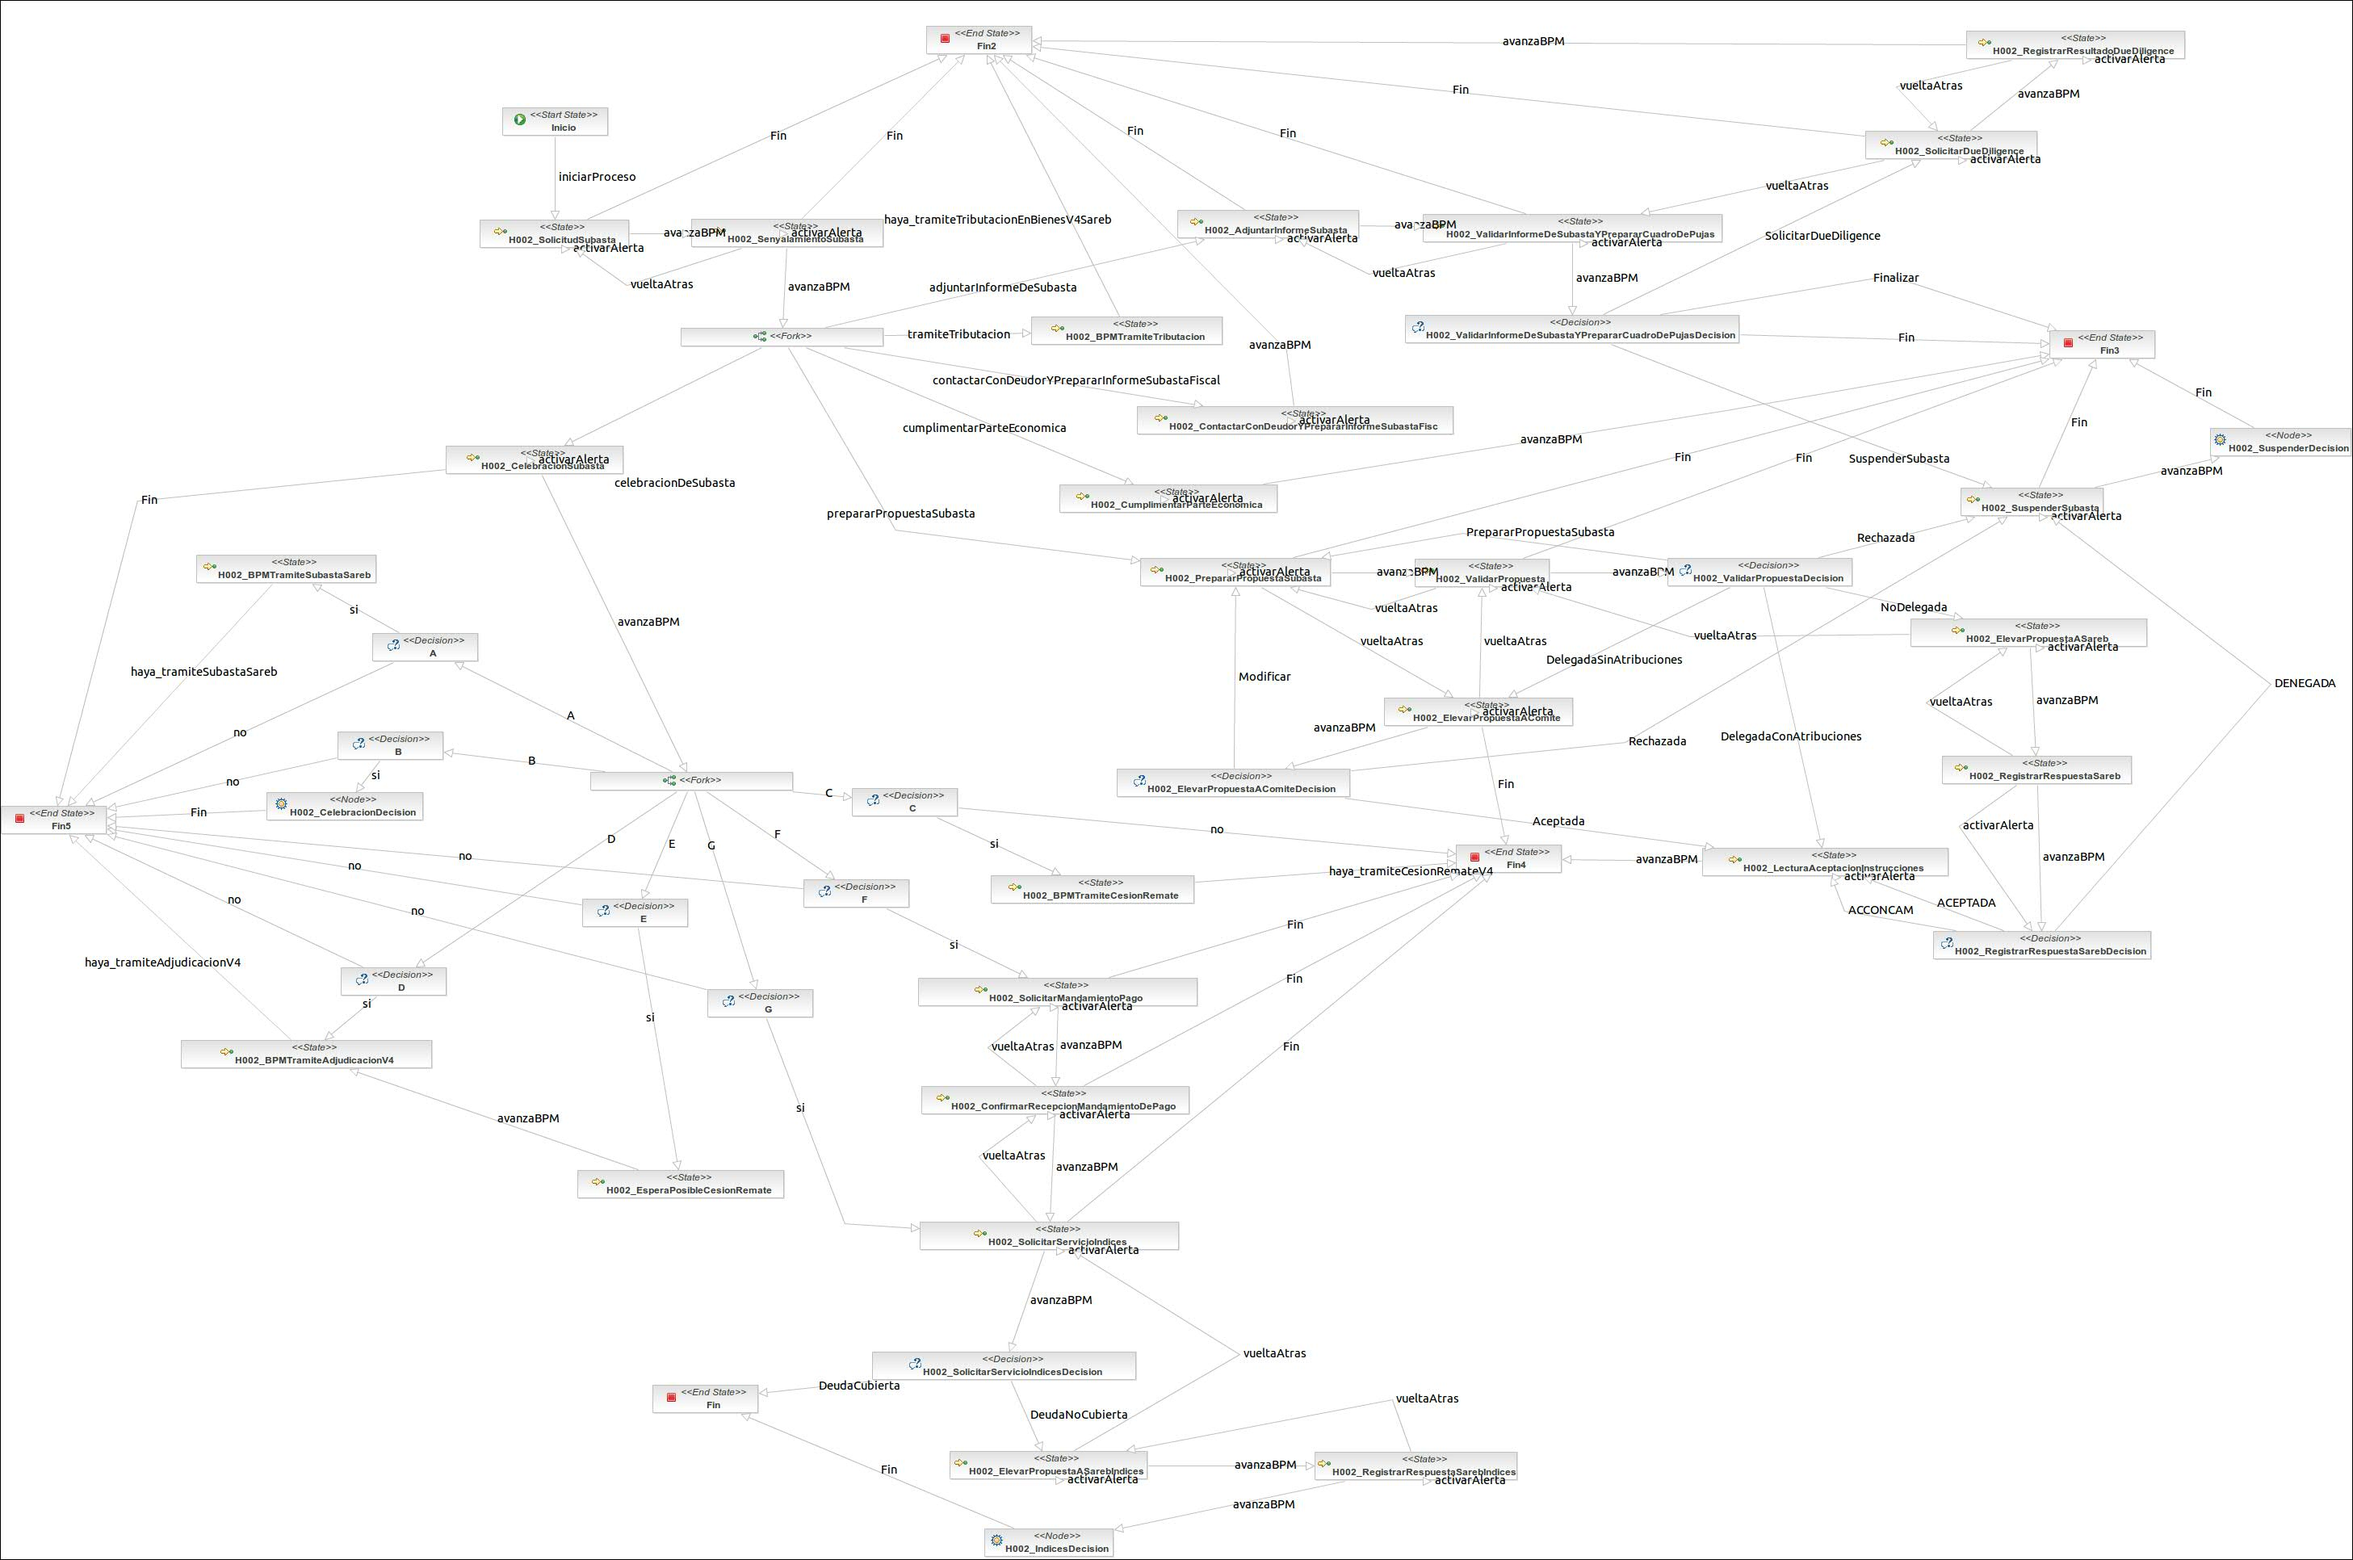
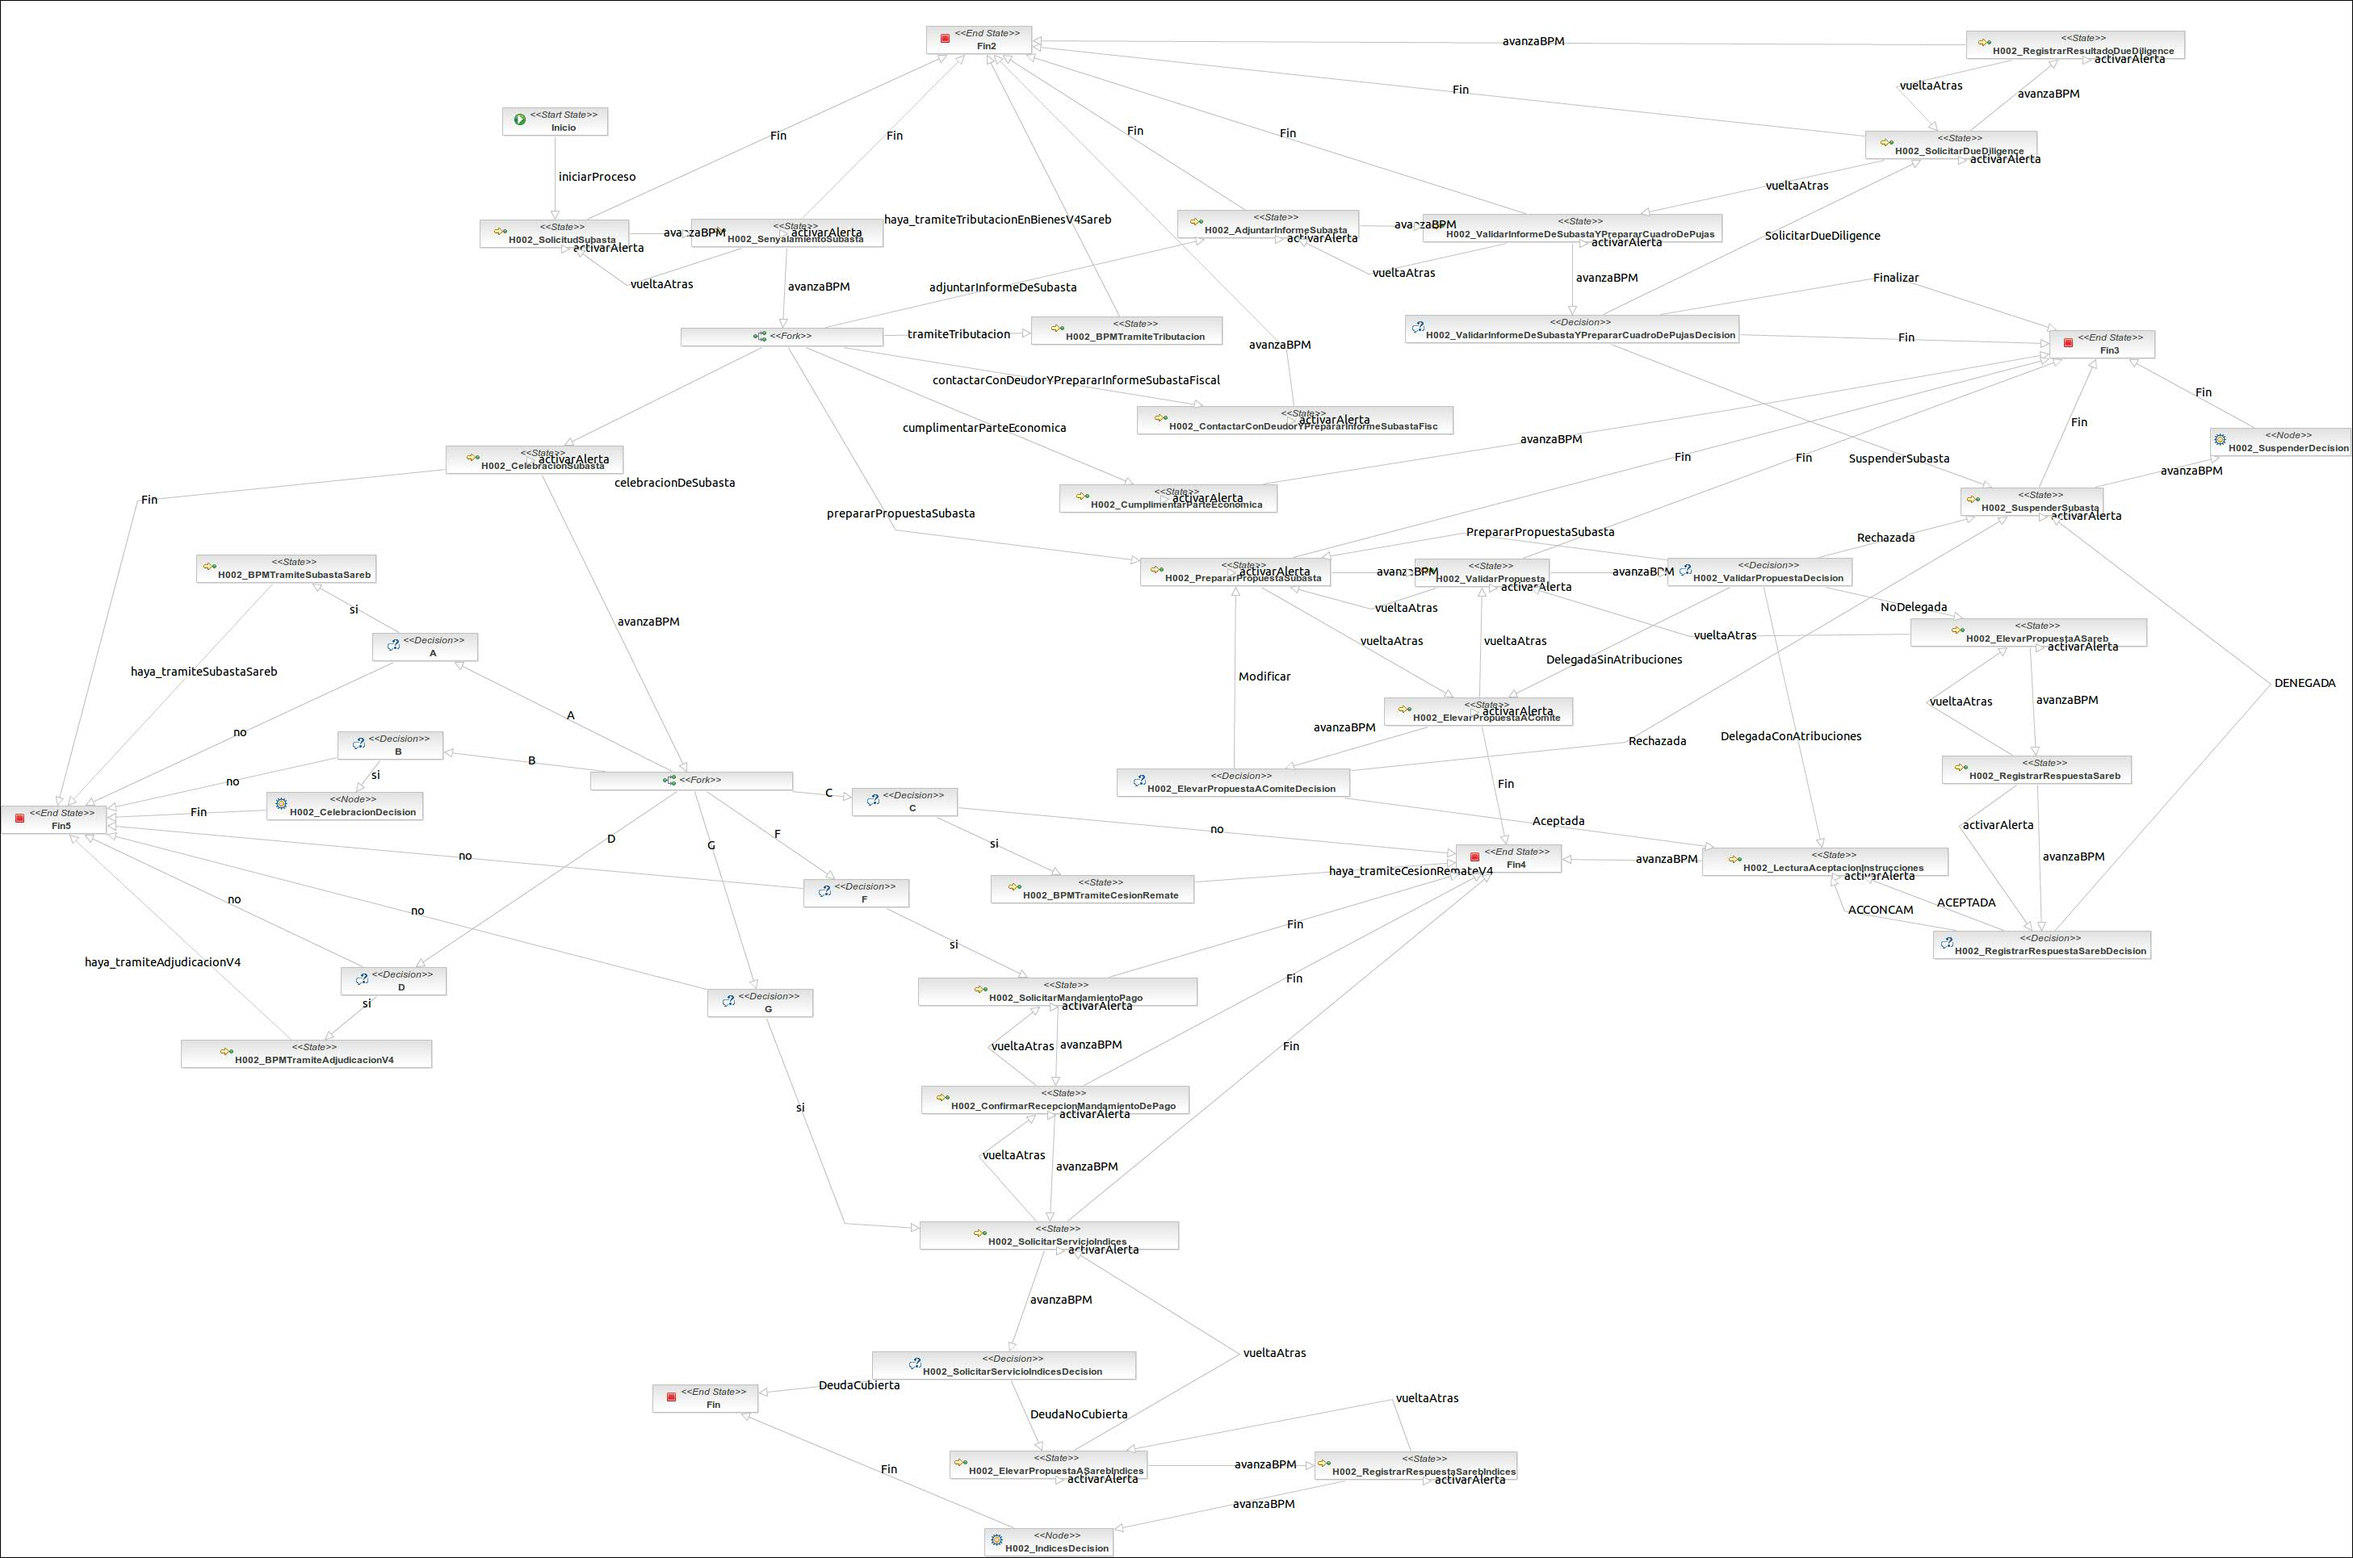
HR-900 Modificación del trámite de Subasta Sareb

diff --git a/recovery-procedimientos-bpmHaya/src/main/java/es/pfsgroup/procedimientos/subasta/SubastaV4HayaLeaveActionHandler.java b/recovery-procedimientos-bpmHaya/src/main/java/es/pfsgroup/procedimientos/subasta/SubastaV4HayaLeaveActionHandler.java
@@ -375,19 +375,6 @@ public class SubastaV4HayaLeaveActionHandler extends
 				}
 			}
 
-			/*
-			 * else if ("comboSuspension".equals(val.getNombre())){
-			 * comboSuspendida = val.getValor(); if
-			 * ("01".equals(comboSuspendida)){ suspendida = true; } }
-			 */
-
-			if ("comboCesionRemate".equals(val.getNombre())) {
-				comboCesionRemate = val.getValor();
-				if (DDSiNo.SI.equals(comboCesionRemate)) {
-					cesionRemate = true;
-				}
-			}
-
 			if ("comboDecisionSuspension".equals(val.getNombre())) {
 				comboDecisionSuspension = val.getValor();
 				if (DDDecisionSuspension.TERCEROS.equals(comboDecisionSuspension)) {
@@ -396,13 +383,6 @@ public class SubastaV4HayaLeaveActionHandler extends
 				// B - suspendida entidad
 				if (DDDecisionSuspension.ENTIDAD.equals(comboDecisionSuspension)) {
 					suspendidaEntidad = true;
-				}
-			}
-
-			if ("comboAdjudicadoEntidad".equals(val.getNombre())) {
-				comboAdjudicadoEntidad = val.getValor();
-				if (DDSiNo.SI.equals(comboAdjudicadoEntidad)) {
-					adjudicadoEntidadPosibleRemate = true;
 				}
 			}
 
@@ -428,6 +408,9 @@ public class SubastaV4HayaLeaveActionHandler extends
 							} else {
 								bienAdjuTerceroFondo = true;
 							}
+						}
+						if(!Checks.esNulo(bien.getAdjudicacion().getCesionRemate())){
+							cesionRemate = true;
 						}
 					}
 				}
@@ -458,17 +441,8 @@ public class SubastaV4HayaLeaveActionHandler extends
 
 			// 1.3 Si hay un bien que se lo ha adjudicado la entidad:
 			if (bienAdjuEntidad) {
-				// 1.3.1 que exista posibilidad de remate, para ello habrá una
-				// tarea de espera de 20 días y transcurrido
-				// ese plazo se lanzaría el Tramite de Adjudicación
-				if (adjudicadoEntidadPosibleRemate) {
-					resultado[4] = true;
-				}
-				// 1.3.2 en el caso que no exista posibilidad de remate, se
 				// lanzará el "Tramite de Adjudicación"
-				else {
-					resultado[3] = true;
-				}
+				resultado[3] = true;				
 			}
 
 		}
